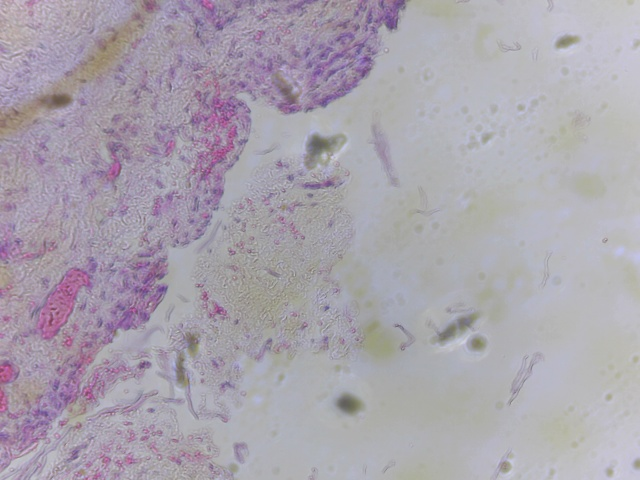
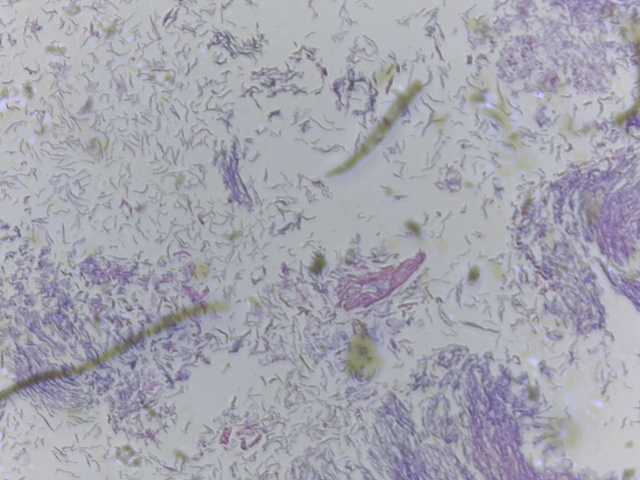
ok variance is kinda working for focus

diff --git a/cam.py b/cam.py
@@ -19,7 +19,7 @@ threads = []
 
 
 absolute_preable = b"G90 G0"    
-start_position = [-3.1, -8.8, 26]
+start_position = [-3.1, -8.8, 21.5]
 scan_start_position = "X {} Y{} Z{}\n".format(start_position[0], start_position[1], start_position[2])
 # Create the main window
 root = tk.Tk()
@@ -71,7 +71,7 @@ record_variance_next_frame = False
 highest_variance = 0
 highest_variance_z = 0
 
-step_size = 0.05
+step_size = 0.1
 zstep_size = 0.1
 
 in_startup_sequence = True
@@ -81,7 +81,7 @@ startup_sequence_index = 0
 
 def get_scan_position(i, j):
     global save_next_frame, scan_x, scan_y, zoom_above_start
-    positionbinary = ("X{} Y{} Z{}\n".format(start_position[0] + step_size * i, start_position[1] + step_size * j, start_position[2] + zoom_above_start)).encode()
+    positionbinary = ("X{} Y{} Z{}\n".format(start_position[0] + step_size * i, start_position[1] + step_size * j, start_position[2] + highest_variance_z)).encode()
     return positionbinary
 
 
@@ -100,9 +100,9 @@ def start_scan():
 
 def variance_callback():
     global record_variance_next_frame
-    
+    time.sleep(0.5)
     record_variance_next_frame = True
-    time.sleep(1)
+    time.sleep(0.5)
             
 
 def zoom_in():
@@ -135,17 +135,16 @@ def go_above_best_zoom():
     
 def zoom_to_best_zoom():
     global highest_variance_z
+    print("Zooming to best zoom clicked!", highest_variance_z)
     zoom_to_position = "X {} Y{} Z{}\n".format(start_position[0], start_position[1], start_position[2] + highest_variance_z ).encode()
     test_command = absolute_preable + zoom_to_position
-    send_gcode(test_command)
+    send_gcode(test_command, longwait)
     
-def shrink_z_step():
-    global zstep_size, startup_sequence_index, startup_commands, zoom_above_start
-    zoom_above_start = highest_variance_z - ( 3 * zstep_size)
-    zstep_size = zstep_size / 2
-    startup_sequence_index = startup_sequence_index + 1
-    startup_commands[startup_sequence_index]()
     
+    
+def longwait():
+    print("Long wait clicked!")
+    time.sleep(3)
 def zoom_till_good_enough():
     global zoom_above_start
     print("Zoom till good enough clicked!")
@@ -157,7 +156,17 @@ def zoom_till_good_enough():
 startup_commands = [
     home_click,
     zoom_click, 
-    
+    zoom_till_good_enough,
+    zoom_till_good_enough,
+    zoom_till_good_enough,
+    zoom_till_good_enough,
+    zoom_till_good_enough,
+    zoom_till_good_enough,
+    zoom_till_good_enough,
+    zoom_till_good_enough,
+    zoom_till_good_enough,
+    zoom_to_best_zoom,
+    start_scan
 ]        
 
 startbutton = tk.Button(button_frame, text="Start", command=startup_sequence)
@@ -275,8 +284,10 @@ def update_video():
                 laplacian = cv2.Laplacian(gray, cv2.CV_64F)
                 variance = laplacian.var()
                 print("Variance: ", variance)
+                print("Zoom: ", zoom_above_start)
                 
                 if variance > highest_variance:
+                    print("######### New highest variance: ", variance, "at zoom: ", zoom_above_start)
                     highest_variance = variance
                     highest_variance_z = zoom_above_start
                     

diff --git a/stitch.py b/stitch.py
@@ -2,7 +2,8 @@ from stitching import AffineStitcher
 import cv2
 import os
 
-stitcher = AffineStitcher()
+stitcher = AffineStitcher( )
+
 
 
 rangex = (0, 4)
@@ -25,7 +26,7 @@ for level in range(0, 4):
             print("stitching", imageApath, imageBpath, "to", combined_path)
 
 
-            combined = stitcher.stitch([imageApath, imageBpath])
+            combined = stitcher.stitch_verbose([imageApath, imageBpath])
 
             combined_path = next_level_path + "{}-{}.jpg".format(x, int(y // 2))
             cv2.imwrite(combined_path, combined)
@@ -38,8 +39,9 @@ for level in range(0, 4):
 
                 imageApath = level_path + "{}-{}.jpg".format(x, y)
                 imageBpath = level_path + "{}-{}.jpg".format(x + 1, y)
+                print("stitching", imageApath, imageBpath)
 
-                combined = stitcher.stitch([imageApath, imageBpath])
+                combined = stitcher.stitch_verbose([imageApath, imageBpath])
 
                 combined_path = next_level_path + "{}-{}.jpg".format(int(x // 2), y)
                 print("stitched", imageApath, imageBpath, "to", combined_path)
